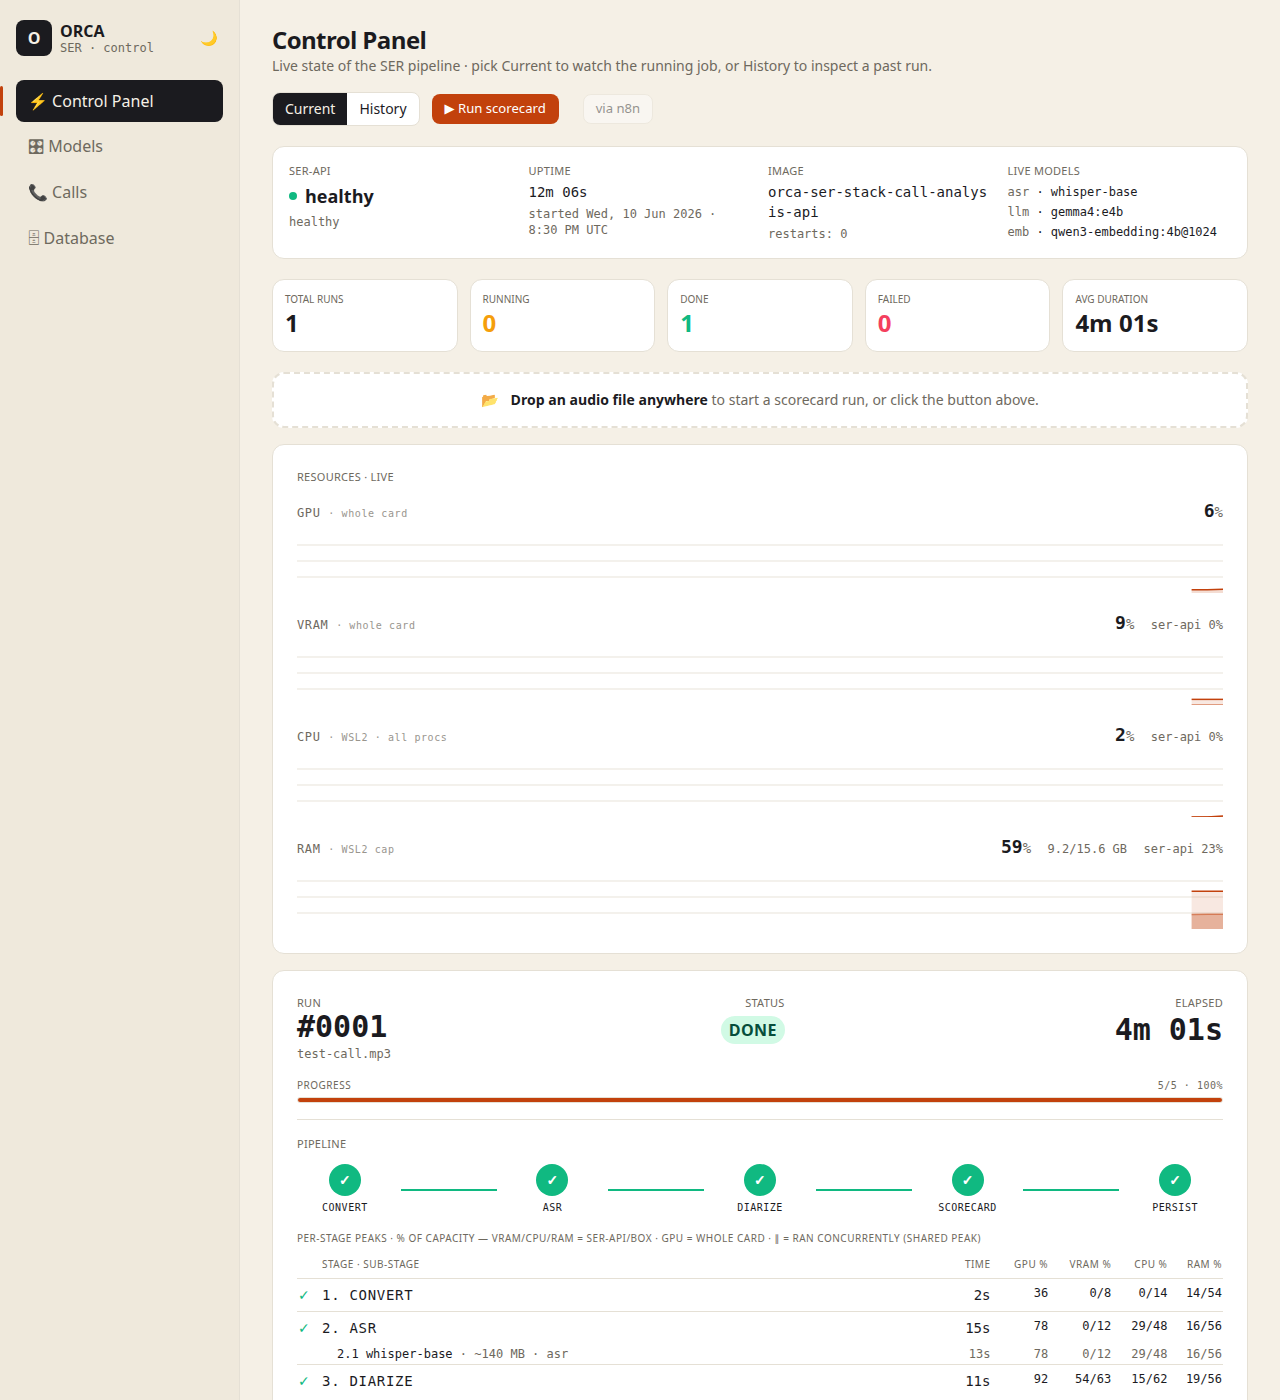
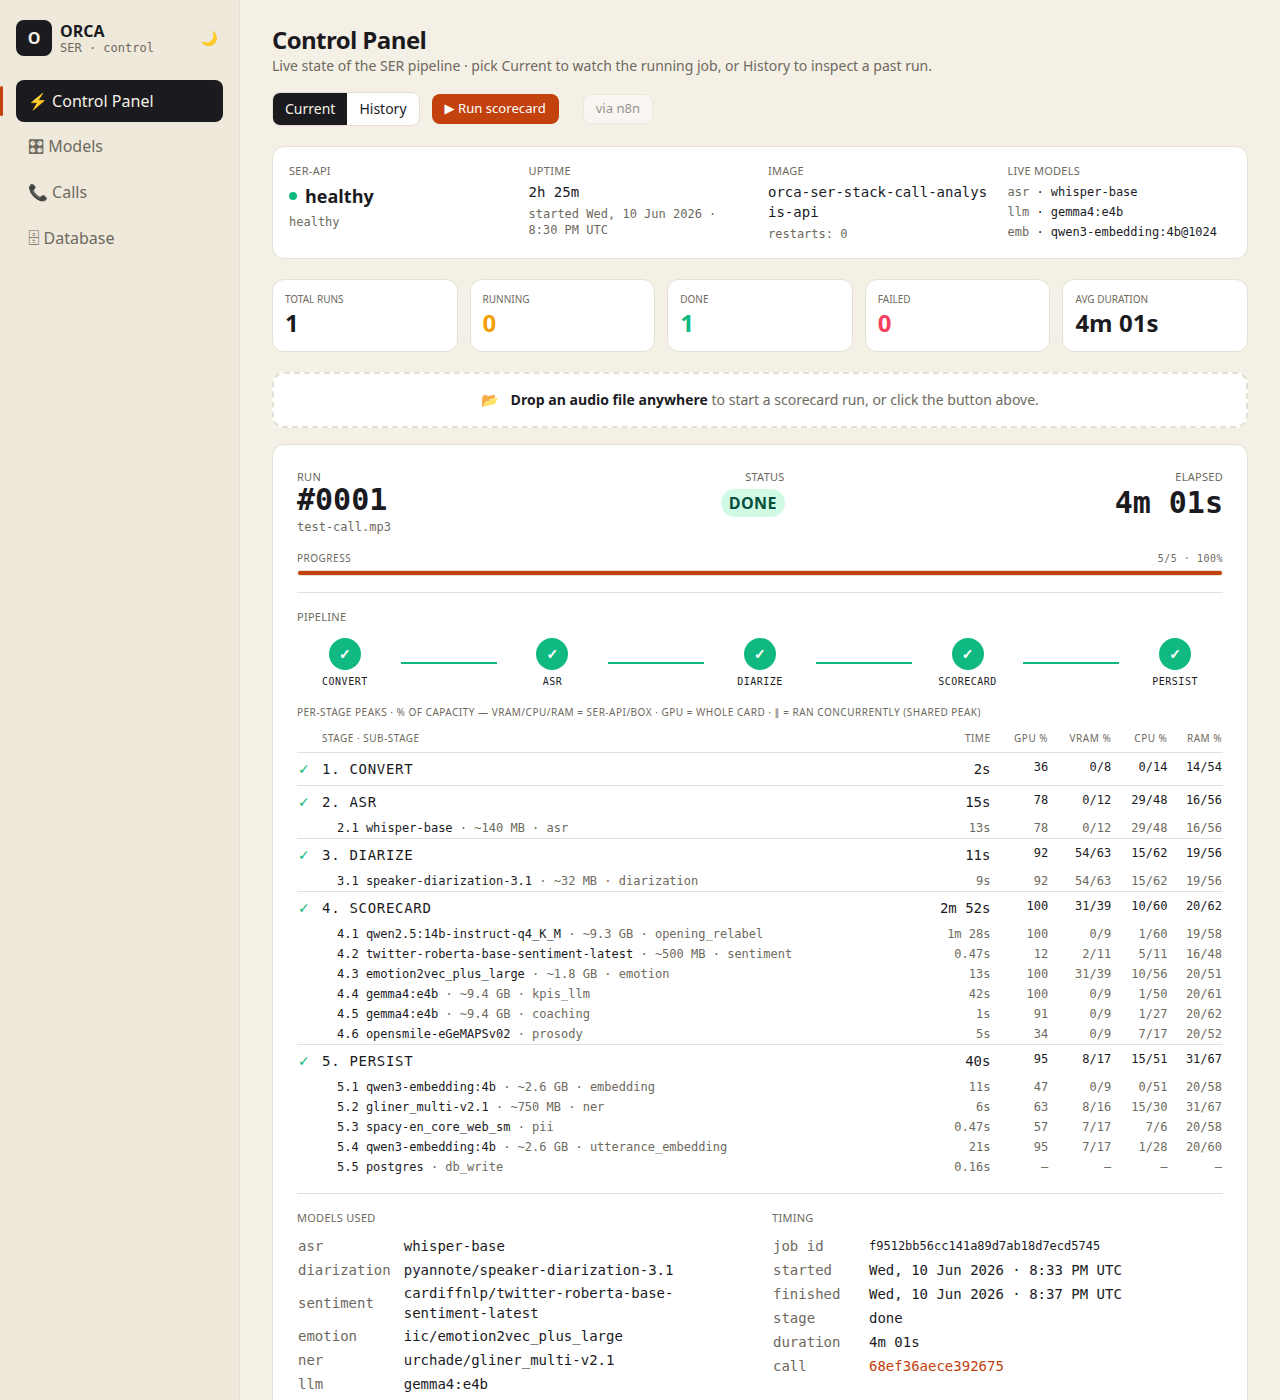
Remove live-resources panel from the control UI
The scrolling GPU/VRAM/CPU/RAM curve graphs (browser-side ~1s poll of
/resources.json proxying call-analysis-api /resources) are gone:
partial deleted, route and client helper removed, README screenshot
retaken. Per-stage/per-model resource peaks in the run history are
unchanged - those read from pipeline_runs.metadata.

diff --git a/ORCA_UI_SER_CONTROL/templates/status.html b/ORCA_UI_SER_CONTROL/templates/status.html
@@ -83,10 +83,6 @@
   <span><strong class="text-ink">Drop an audio file anywhere</strong> to start a scorecard run, or click the button above.</span>
 </div>
 
-<!-- Live resource curves — persistent (NOT inside the 2s-swapped panel div)
-     so the client-side sample history survives across polls. -->
-{% include "partials/_resource_graphs.html" %}
-
 <!-- The CONTROL PANEL itself — polled by HTMX every 2s when current,
      once-loaded when history. -->
 <div hx-get="/_partial/control-panel?mode={{ mode }}{% if selected_run %}&run={{ selected_run }}{% endif %}"

diff --git a/ORCA_UI_SER_CONTROL/clients/ser_api.py b/ORCA_UI_SER_CONTROL/clients/ser_api.py
@@ -195,15 +195,3 @@ def delete_call(call_id: str, purge_files: bool = True) -> Dict[str, Any]:
         return {"ok": False, "error": repr(exc)}
 
 
-def resources() -> Dict[str, Any]:
-    """GET /resources — live rel/global/other GPU/CPU/RAM snapshot for the
-    control-panel summary box. Short timeout + empty dict on failure so a
-    slow/busy ser-api never stalls the HTMX poll."""
-    try:
-        with httpx.Client(base_url=config.SER_API_URL, timeout=3.0) as c:
-            r = c.get("/resources")
-            r.raise_for_status()
-            return r.json()
-    except Exception as exc:  # noqa: BLE001
-        logger.warning("ser_api_resources_failed err=%r", exc)
-        return {}

diff --git a/ORCA_UI_SER_CONTROL/app.py b/ORCA_UI_SER_CONTROL/app.py
@@ -473,14 +473,6 @@ def control_panel_partial(request: Request,
     )
 
 
-# Live resource snapshot as JSON — fed to the control-panel curve graphs.
-# Thin proxy over ser_api.resources() (3s timeout, {} on failure) so the
-# browser's ~1s poll loop never blocks on a GPU-busy ser-api.
-@app.get("/resources.json")
-def resources_json():
-    return JSONResponse(ser_api.resources())
-
-
 # ── Actions ────────────────────────────────────────────────────────────────
 @app.post("/control/trigger")
 def trigger_pipeline():

diff --git a/README.md b/README.md
@@ -124,7 +124,7 @@ No GPU? `docker compose --profile cpu up -d` works — every model falls back to
 |---|---|
 | ![Report](docs/img/report.png) | ![Control UI](docs/img/control-ui.png) |
 
-Left: the on-demand executive report — verdict, coaching notes, conversation dynamics, all charts pure SVG so the PDF stays vector. Right: the control center after a run — live GPU/VRAM/CPU/RAM strips and per-stage resource peaks recorded into `pipeline_runs`.
+Left: the on-demand executive report — verdict, coaching notes, conversation dynamics, all charts pure SVG so the PDF stays vector. Right: the control center after a run — per-stage / per-model GPU/VRAM/CPU/RAM peaks recorded into `pipeline_runs`.
 
 ## What one call turns into
 
